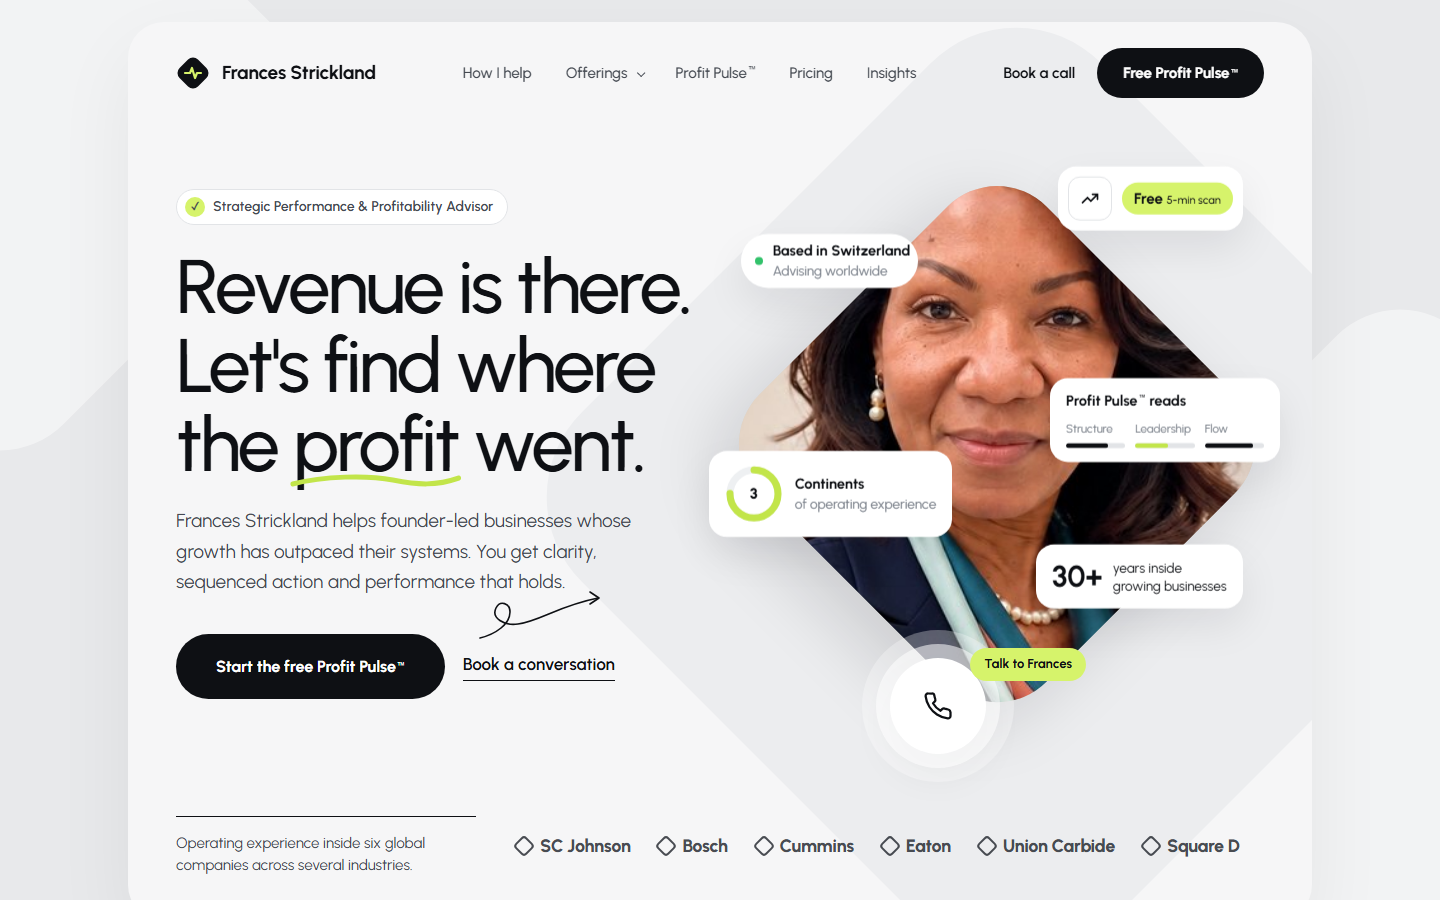
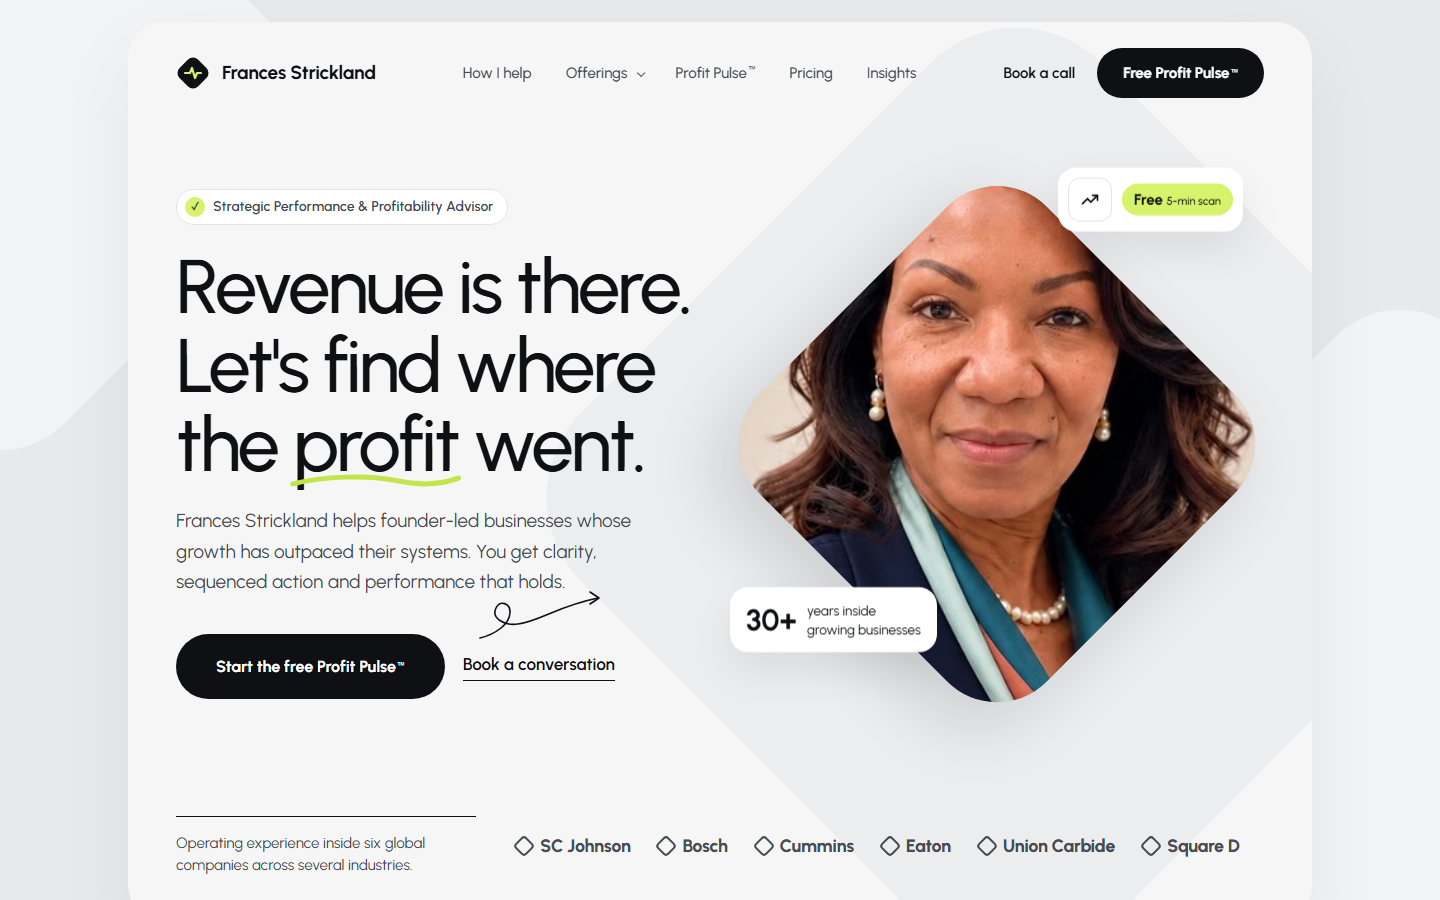
Simplify Design B hero: keep two floating cards around portrait

diff --git a/design-b.html b/design-b.html
@@ -113,9 +113,9 @@ nav.main ul a:hover{color:var(--ink)}
 .call{position:absolute;z-index:3;left:30%;bottom:-30px;width:96px;height:96px;border-radius:50%;background:#fff;box-shadow:0 0 0 14px rgba(255,255,255,.55),0 0 0 28px rgba(255,255,255,.3),var(--sh);display:grid;place-items:center;transition:transform .2s}
 .call:hover{transform:scale(1.05)}
 .call-lab{position:absolute;left:80px;top:-10px;background:var(--lime);border-radius:999px;padding:6px 14px;font-size:13px;font-weight:700;white-space:nowrap}
-.fc-yrs{right:4%;bottom:20%;display:flex;align-items:center;gap:10px;animation-delay:-5s}
+.fc-yrs{left:0;bottom:12%;display:flex;align-items:center;gap:10px;animation-delay:-5s}
 .fc-yrs b{font-size:30px;line-height:1}
-@media(max-width:600px){.fc-bars{right:0;width:190px;top:auto;bottom:10%}.fc-ring,.fc-now,.fc-yrs{display:none}.call{width:72px;height:72px;left:6%;bottom:-10px}.call-lab{left:62px}.diamond{width:84%}}
+@media(max-width:600px){.fc-bars{right:0;width:190px;top:auto;bottom:10%}.fc-yrs{left:0;bottom:4%}.call{width:72px;height:72px;left:6%;bottom:-10px}.call-lab{left:62px}.diamond{width:84%}}
 
 /* ============ RECOGNITION (Brevon cards) ============ */
 .grid6{display:grid;grid-template-columns:repeat(3,1fr);gap:20px}
@@ -354,21 +354,7 @@ sup.tm{font-family:Arial,sans-serif;font-size:.5em;vertical-align:super;line-hei
         <div class="visual">
           <div class="diamond"><img src="assets/frances.jpg" alt="Frances Strickland"></div>
           <div class="fc fc-price"><span class="ic"><svg width="20" height="20" viewBox="0 0 24 24" fill="none" stroke="#0E1014" stroke-width="2" stroke-linecap="round"><path d="M3 17l6-6 4 4 8-8M15 7h6v6"/></svg></span><span class="lp">Free <small>5-min scan</small></span></div>
-          <div class="fc fc-now"><span class="dot"></span><span><b>Based in Switzerland</b><br><span style="color:var(--ink-3)">Advising worldwide</span></span></div>
-          <div class="fc fc-ring">
-            <div class="ring"><svg viewBox="0 0 58 58"><circle cx="29" cy="29" r="24" fill="none" stroke="#EEF0F2" stroke-width="7"/><circle cx="29" cy="29" r="24" fill="none" stroke="#C2E54A" stroke-width="7" stroke-linecap="round" stroke-dasharray="151" stroke-dashoffset="38"/></svg><span>3</span></div>
-            <div><b>Continents</b><br><span style="color:var(--ink-3)">of operating experience</span></div>
-          </div>
-          <div class="fc fc-bars">
-            <b>Profit Pulse<sup class="tm">™</sup> reads</b>
-            <div class="cols">
-              <div><small>Structure</small><div class="bar"><i style="width:70%"></i></div></div>
-              <div><small>Leadership</small><div class="bar"><i class="l" style="width:55%"></i></div></div>
-              <div><small>Flow</small><div class="bar"><i style="width:82%"></i></div></div>
-            </div>
-          </div>
           <div class="fc fc-yrs"><b>30+</b><span>years inside<br>growing businesses</span></div>
-          <a class="call" href="https://calendly.com/timewithfran/strategic-conversation" aria-label="Book a conversation"><svg width="30" height="30" viewBox="0 0 24 24" fill="none" stroke="#0E1014" stroke-width="1.8" stroke-linecap="round" stroke-linejoin="round"><path d="M22 16.9v3a2 2 0 0 1-2.2 2 19.8 19.8 0 0 1-8.6-3.1 19.5 19.5 0 0 1-6-6A19.8 19.8 0 0 1 2.1 4.2 2 2 0 0 1 4.1 2h3a2 2 0 0 1 2 1.7c.1.9.4 1.8.7 2.7a2 2 0 0 1-.5 2.1L8 9.8a16 16 0 0 0 6 6l1.3-1.3a2 2 0 0 1 2.1-.4c.9.3 1.8.6 2.7.7a2 2 0 0 1 1.7 2z"/></svg><span class="call-lab">Talk to Frances</span></a>
         </div>
 
         <div class="trust">
